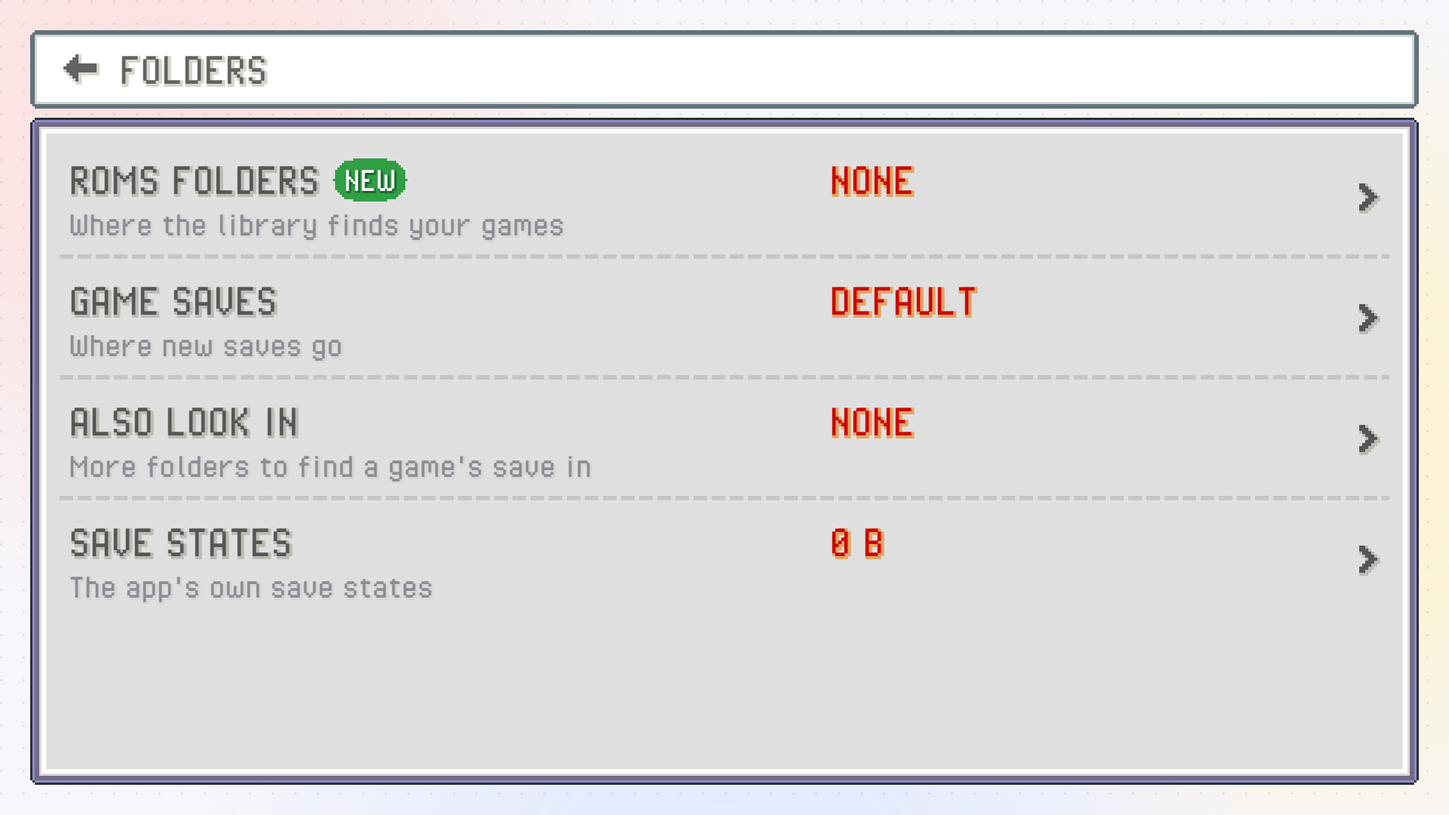
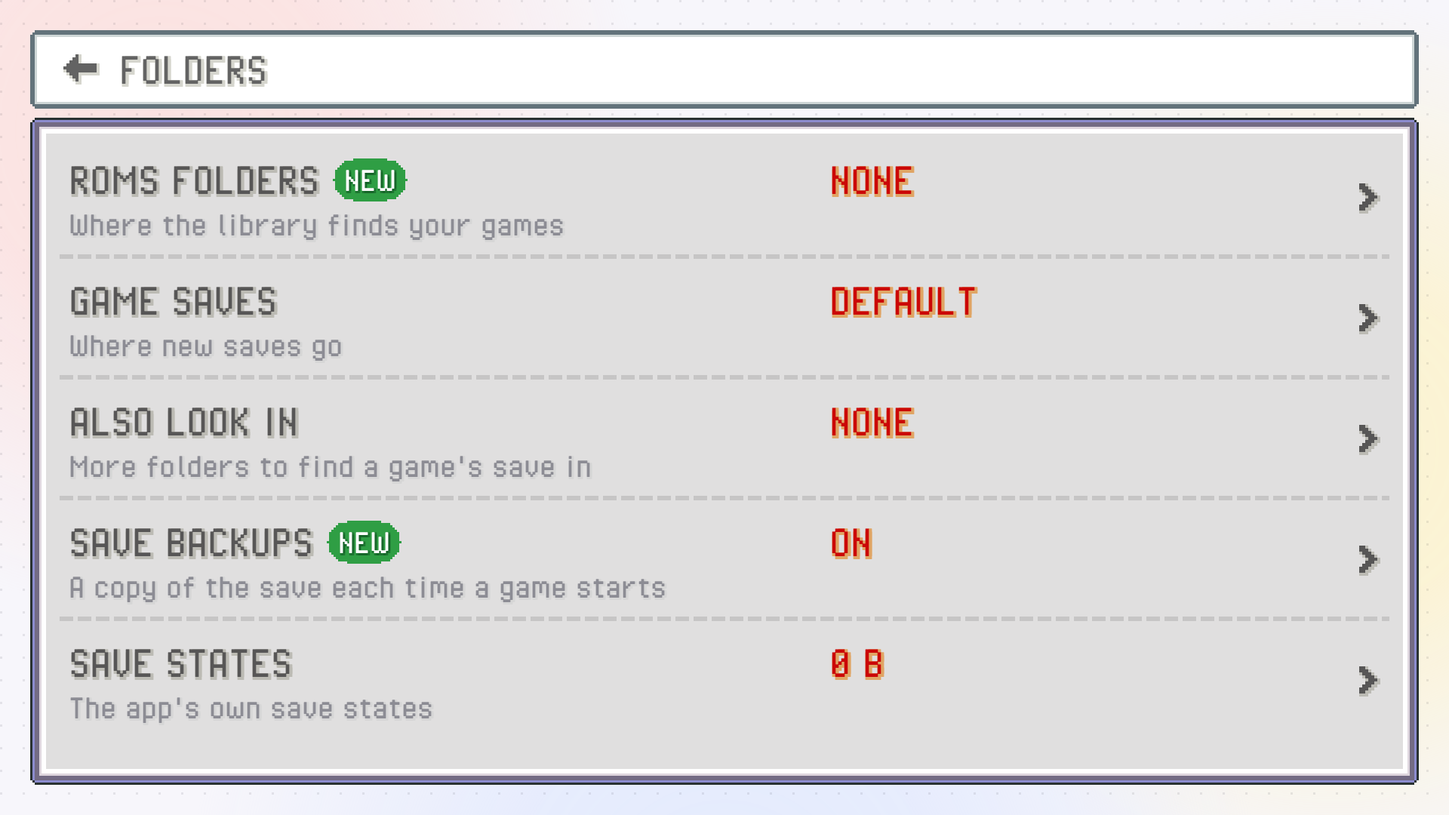
SAVE BACKUPS: backups on or off, how many a game keeps, one folder for all
Settings > FOLDERS > SAVE BACKUPS (NEW tag): BACKUPS turns the copy each game start takes on or off,
KEEP PER GAME picks 1 / 3 / 5 / 10 / 20 / 50 (extras go at the next start), and CHANGE FOLDER puts
every game's backups in one folder instead of beside each save. RESTORE BACKUP lists both places.
The save editor still backs up whatever the switch says. Manual, translations, ui-preview and docs
shots, tests.

diff --git a/app/src/main/kotlin/com/pokedaisy/app/SettingsActivity.kt b/app/src/main/kotlin/com/pokedaisy/app/SettingsActivity.kt
@@ -127,7 +127,7 @@ import com.pokedaisy.app.companion.ui.drawPixelRoundRect
  */
 class SettingsActivity : ComponentActivity() {
 
-    private enum class Screen { HOME, SPEED, DISPLAY, HOTKEYS, CONTROLS, SHADERS, FIELD_HUD, QUICK_MENU, TOUCH, OVERLAYS, FOLDERS, ROMS_FOLDERS, SAVES_FOLDER, SAVE_SEARCH, STATES_FOLDER, COVER_ART, SCREENSCRAPER, HIDDEN, ACHIEVEMENTS, CHEATS, CHEAT_ADD, LICENSES, HELP }
+    private enum class Screen { HOME, SPEED, DISPLAY, HOTKEYS, CONTROLS, SHADERS, FIELD_HUD, QUICK_MENU, TOUCH, OVERLAYS, FOLDERS, ROMS_FOLDERS, SAVES_FOLDER, SAVE_SEARCH, STATES_FOLDER, BACKUPS, COVER_ART, SCREENSCRAPER, HIDDEN, ACHIEVEMENTS, CHEATS, CHEAT_ADD, LICENSES, HELP }
 
     private lateinit var prefs: Prefs
     private var screen by mutableStateOf(Screen.HOME)
@@ -292,6 +292,7 @@ class SettingsActivity : ComponentActivity() {
                         Screen.SAVES_FOLDER -> tk("GAME SAVES")
                         Screen.SAVE_SEARCH -> tk("ALSO LOOK IN")
                         Screen.STATES_FOLDER -> tk("SAVE STATES")
+                        Screen.BACKUPS -> tk("SAVE BACKUPS")
                         Screen.COVER_ART -> tk("COVER ART")
                         Screen.SCREENSCRAPER -> "ScreenScraper"
                         Screen.HIDDEN -> tk("HIDDEN GAMES")
@@ -324,6 +325,7 @@ class SettingsActivity : ComponentActivity() {
                     Screen.SAVES_FOLDER -> SavesFolderScreen(m, small)
                     Screen.SAVE_SEARCH -> AlsoLookInScreen(m, small)
                     Screen.STATES_FOLDER -> StatesFolderScreen(m, small)
+                    Screen.BACKUPS -> SaveBackupsScreen(m, small)
                     Screen.COVER_ART -> CoverArtScreen(m, small)
                     Screen.SCREENSCRAPER -> ScreenScraperScreen(m, small)
                     Screen.HIDDEN -> HiddenScreen(m, small)
@@ -1677,6 +1679,11 @@ class SettingsActivity : ComponentActivity() {
             SettingRow(tk("ALSO LOOK IN"), if (extra.isEmpty()) tk("NONE") else extra.size.toString(), opensPage = true, subtitle = "More folders to find a game's save in") {
                 screen = Screen.SAVE_SEARCH
             },
+            SettingRow(
+                tk("SAVE BACKUPS"), if (prefs.saveBackups) tk("ON") else tk("OFF"), opensPage = true,
+                subtitle = "A copy of the save each time a game starts",
+                labelBadge = com.pokedaisy.app.companion.NewFeatures.badge(com.pokedaisy.app.companion.NewFeatures.SAVE_BACKUPS),
+            ) { screen = Screen.BACKUPS },
             SettingRow(tk("SAVE STATES"), humanSize(states), opensPage = true, subtitle = "The app's own save states") { screen = Screen.STATES_FOLDER },
         )
     }
@@ -1786,6 +1793,75 @@ class SettingsActivity : ComponentActivity() {
         Column(Modifier.fillMaxWidth().verticalScroll(rememberScrollState())) {
             FolderSection(null, statesDir, folderTick, m, small)
         }
+    }
+
+    /** SAVE BACKUPS: the copy of the save each game's start takes ([SaveBackups]) - on or off, how many a game
+     * keeps and where they go. The save editor backs up whatever this says. */
+    @Composable
+    private fun SaveBackupsScreen(m: GbaTextMetrics, small: GbaTextMetrics) {
+        @Suppress("UNUSED_EXPRESSION") revision
+        val tick = folderTick
+        val pick = rememberLauncherForActivityResult(StorageAccess.PickFolder()) { uri ->
+            val path = pickedFolder(uri) ?: return@rememberLauncherForActivityResult
+            prefs.saveBackupsDir = path
+            backupsChanged()
+        }
+        val on = prefs.saveBackups
+        val keep = prefs.saveBackupsKeep
+        val folder = remember(tick) { prefs.saveBackupsDir }
+        val rows = listOf(
+            SettingRow(tk("BACKUPS"), if (on) tk("ON") else tk("OFF"), subtitle = "A copy of the save each time a game starts") {
+                prefs.saveBackups = !on
+                backupsChanged()
+            },
+            SettingRow(tk("KEEP PER GAME"), keep.toString(), enabled = on, subtitle = "The oldest go when a new one is made") {
+                selector = Selector(tk("KEEP PER GAME"), SaveBackups.KEEP_CHOICES.map { it.toString() }, keep.toString()) {
+                    prefs.saveBackupsKeep = it.toInt()
+                    backupsChanged()
+                }
+            },
+        )
+        val ctx = LocalContext.current
+        Column(Modifier.fillMaxWidth()) {
+            OptionListWindow(m, Modifier.fillMaxWidth().weight(1f, fill = false)) {
+                GroupedRows(rows, m, cursor = -1, onClick = { rows[it].onClick() }, footer = {
+                    // Level with the rows' labels.
+                    Column(Modifier.padding(horizontal = m.u * 8).padding(top = m.u * 4)) {
+                        GbaText(tr("BACKUP FOLDER"), OptionColors.label, OptionColors.labelShadow, m)
+                        if (folder == null) {
+                            GbaText(
+                                tr("Beside each save, in a {0} folder.", SaveBackups.DIR_NAME),
+                                OptionColors.muted, OptionColors.mutedShadow, small, maxLines = Int.MAX_VALUE,
+                            )
+                        } else {
+                            GbaText(folder, OptionColors.muted, OptionColors.mutedShadow, small, maxLines = 3)
+                        }
+                        GbaText(
+                            tr("Backups made before a change stay where they are, and RESTORE BACKUP still finds them."),
+                            OptionColors.muted, OptionColors.mutedShadow, small, maxLines = Int.MAX_VALUE,
+                            modifier = Modifier.padding(top = m.u * 2),
+                        )
+                        Row(
+                            modifier = Modifier.padding(vertical = m.u * 4),
+                            horizontalArrangement = Arrangement.spacedBy(m.u * 4),
+                        ) {
+                            OptionButton(tk("CHANGE FOLDER"), small, enabled = on, onClick = { pickFolder(pick) })
+                            if (folder != null) {
+                                OptionButton(tk("USE DEFAULT"), small, enabled = on, onClick = { prefs.saveBackupsDir = null; backupsChanged() })
+                                OptionButton(tk("COPY PATH"), small, onClick = { copyPath(ctx, folder) })
+                            }
+                        }
+                    }
+                })
+            }
+        }
+    }
+
+    /** A SAVE BACKUPS choice changed: the next game's start reads it from [SaveBackups.settings]. */
+    private fun backupsChanged() {
+        SaveBackups.settings = SaveBackups.Settings.from(prefs)
+        revision++
+        folderTick++
     }
 
     private var romsScanning by mutableStateOf(false)
@@ -1918,7 +1994,7 @@ class SettingsActivity : ComponentActivity() {
     }
 
     companion object {
-        private val FOLDER_PAGES = setOf(Screen.ROMS_FOLDERS, Screen.SAVES_FOLDER, Screen.SAVE_SEARCH, Screen.STATES_FOLDER)
+        private val FOLDER_PAGES = setOf(Screen.ROMS_FOLDERS, Screen.SAVES_FOLDER, Screen.SAVE_SEARCH, Screen.STATES_FOLDER, Screen.BACKUPS)
         val RATES = floatArrayOf(0f, 1.5f, 2f, 3f, 4f, 5f, 6f, 8f, 10f)
         const val REPO_URL = "https://github.com/lidor30/pokedaisy"
         /** A ROM path: open straight on that game's CHEATS (its library menu). */

diff --git a/app/src/main/kotlin/com/pokedaisy/app/SaveBackups.kt b/app/src/main/kotlin/com/pokedaisy/app/SaveBackups.kt
@@ -11,34 +11,73 @@ import java.util.Locale
  * it: `<saves>/pokedaisy-backups/<game>.backup-<yyyyMMdd-HHmmss>.<ext>`. Beside the
  * save (not in the app's private folder) so a file manager reaches it, it outlives an
  * uninstall, and LOAD SAVE can pick it. A copy is only made when the save differs from
- * the newest one, and the newest [KEEP] per game are kept.
+ * the newest one, and the newest [Settings.keep] per game are kept.
+ *
+ * Settings > FOLDERS > SAVE BACKUPS ([settings], from [Prefs]): the start's backups can be turned off, kept
+ * fewer or more, and gathered in one folder of the player's ([Settings.folder]) instead of beside each save.
+ * The save editor's backups ([SaveFileEdits]) are taken whatever the switch says (`force`): it never writes
+ * a save without one.
  */
 object SaveBackups {
 
     const val DIR_NAME = "pokedaisy-backups"
     const val KEEP = 10
 
-    fun dir(save: File): File = File(save.parentFile, DIR_NAME)
+    /** KEEP PER GAME's choices. */
+    val KEEP_CHOICES = listOf(1, 3, 5, 10, 20, 50)
 
-    /** [save]'s backups, newest first. */
-    fun list(save: File): List<File> =
-        dir(save).listFiles { f -> f.isFile && f.name.startsWith("${save.nameWithoutExtension}.backup-") }
+    class Settings(
+        /** Off: a game's start takes no backup. */
+        val enabled: Boolean = true,
+        /** Every game's backups in this folder; null = a [DIR_NAME] folder beside each save. */
+        val folder: File? = null,
+        val keep: Int = KEEP,
+    ) {
+        companion object {
+            fun from(prefs: Prefs) = Settings(prefs.saveBackups, prefs.saveBackupsDir?.let(::File), prefs.saveBackupsKeep)
+        }
+    }
+
+    /** The player's choices: set at app start and by Settings when they change. */
+    @Volatile var settings = Settings()
+
+    /** Where [save]'s new backups go. */
+    fun dir(save: File, settings: Settings = this.settings): File = settings.folder ?: besideSave(save)
+
+    private fun besideSave(save: File) = File(save.parentFile, DIR_NAME)
+
+    /** [save]'s backups, newest first: in the backup folder and beside the save (where they went before a folder
+     * was picked, or after it was dropped), so RESTORE BACKUP still finds the older ones. */
+    fun list(save: File, settings: Settings = this.settings): List<File> =
+        listOfNotNull(besideSave(save), settings.folder).distinctBy { it.absolutePath }
+            .flatMap { inDir(it, save) }.sortedByDescending { it.name }
+
+    private fun inDir(dir: File, save: File): List<File> =
+        dir.listFiles { f -> f.isFile && f.name.startsWith("${save.nameWithoutExtension}.backup-") }
             ?.sortedByDescending { it.name }.orEmpty()
 
     /** Backs [save] up if it has data the newest backup doesn't. Never throws: a
-     * folder we can't write mustn't keep the game from starting. */
-    fun snapshot(save: File, now: Long = System.currentTimeMillis()): File? = runCatching {
+     * folder we can't write mustn't keep the game from starting. [force]: even with backups off. */
+    fun snapshot(
+        save: File, now: Long = System.currentTimeMillis(), settings: Settings = this.settings, force: Boolean = false,
+    ): File? = runCatching {
+        if (!settings.enabled && !force) return null
         if (!save.isFile || save.length() == 0L || save.length() > GameSaves.MAX_BYTES) return null
         val bytes = save.readBytes()
-        val existing = list(save)
-        if (existing.firstOrNull()?.let { sameSave(it.readBytes(), bytes) } == true) return null
-        val dir = dir(save).apply { mkdirs() }
+        val dir = dir(save, settings)
+        val existing = inDir(dir, save)
+        val keep = settings.keep.coerceAtLeast(1)
+        if (existing.firstOrNull()?.let { sameSave(it.readBytes(), bytes) } == true) {
+            existing.drop(keep).forEach { it.delete() }   // KEEP PER GAME lowered since
+            return null
+        }
+        dir.mkdirs()
         val stamp = SimpleDateFormat("yyyyMMdd-HHmmss", Locale.US).format(Date(now))
         val out = File(dir, "${save.nameWithoutExtension}.backup-$stamp.${save.extension}")
         val tmp = File(dir, "${out.name}.tmp")
         tmp.writeBytes(bytes)
         if (!tmp.renameTo(out)) { tmp.delete(); return null }
-        (listOf(out) + existing).drop(KEEP).forEach { it.delete() }
+        (listOf(out) + existing.filter { it != out }).drop(keep).forEach { it.delete() }
         out
     }.onFailure { Log.w("pokedaisy", "save backup failed: $it") }.getOrNull()
 

diff --git a/app/src/main/kotlin/com/pokedaisy/app/companion/i18n/TrSettings.kt b/app/src/main/kotlin/com/pokedaisy/app/companion/i18n/TrSettings.kt
@@ -28,6 +28,13 @@ internal val trSettings: Map<String, Tr> = mapOf(
     "A battle opens BATTLE, then goes back" to Tr(ja = "バトルで バトルを ひらき あとで もどる", fr = "Un combat ouvre COMBAT, puis revient", de = "Ein Kampf öffnet KAMPF, dann zurück", it = "Una lotta apre LOTTA, poi torna", es = "Un combate abre COMBATE y luego vuelve", br = "Uma batalha abre BATALHA e depois volta", pt = "Uma batalha abre BATALHA e depois volta"),
     "SEARCH SETTINGS (e.g. KEY BINDINGS)" to Tr(ja = "せっていを さがす (れい: キーせってい)", fr = "CHERCHER (ex. TOUCHES)", de = "SUCHEN (z. B. TASTEN)", it = "CERCA (es. TASTI)", es = "BUSCAR (p. ej. TECLAS)", br = "BUSCAR (ex. TECLAS)", pt = "PESQUISAR (ex. TECLAS)"),
     "NOTHING MATCHES \"{0}\"" to Tr(ja = "「{0}」は みつかりません", fr = "RIEN POUR « {0} »", de = "NICHTS FÜR \"{0}\"", it = "NIENTE PER \"{0}\"", es = "NADA PARA \"{0}\"", br = "NADA PARA \"{0}\"", pt = "NADA PARA \"{0}\""),
+    "SAVE BACKUPS" to Tr(ja = "セーブの バックアップ", fr = "COPIES DE SAUVEGARDE", de = "SPEICHER-BACKUPS", it = "BACKUP SALVATAGGI", es = "COPIAS DE PARTIDAS", br = "BACKUPS DE SAVES", pt = "CÓPIAS DE GRAVAÇÕES"),
+    "KEEP PER GAME" to Tr(ja = "1ゲームに いくつ", fr = "PAR JEU", de = "PRO SPIEL", it = "PER GIOCO", es = "POR JUEGO", br = "POR JOGO", pt = "POR JOGO"),
+    "BACKUP FOLDER" to Tr(ja = "バックアップの フォルダ", fr = "DOSSIER DES COPIES", de = "BACKUP-ORDNER", it = "CARTELLA BACKUP", es = "CARPETA DE COPIAS", br = "PASTA DE BACKUP", pt = "PASTA DAS CÓPIAS"),
+    "A copy of the save each time a game starts" to Tr(ja = "ゲームを はじめるたびに セーブを コピー", fr = "Une copie de la sauvegarde à chaque lancement", de = "Eine Kopie des Spielstands bei jedem Start", it = "Una copia del salvataggio a ogni avvio", es = "Una copia de la partida al empezar cada juego", br = "Uma cópia do save a cada vez que um jogo começa", pt = "Uma cópia da gravação sempre que um jogo começa"),
+    "The oldest go when a new one is made" to Tr(ja = "あたらしく つくると ふるいものから けします", fr = "Les plus anciennes partent quand une nouvelle est faite", de = "Die ältesten gehen, wenn ein neues entsteht", it = "I più vecchi se ne vanno quando ne arriva uno nuovo", es = "Las más antiguas se borran al hacer una nueva", br = "Os mais antigos saem quando um novo é feito", pt = "As mais antigas saem quando é feita uma nova"),
+    "Beside each save, in a {0} folder." to Tr(ja = "それぞれの セーブの となりの {0} フォルダ。", fr = "À côté de chaque sauvegarde, dans un dossier {0}.", de = "Neben jedem Spielstand, in einem Ordner {0}.", it = "Accanto a ogni salvataggio, in una cartella {0}.", es = "Junto a cada partida, en una carpeta {0}.", br = "Ao lado de cada save, numa pasta {0}.", pt = "Ao lado de cada gravação, numa pasta {0}."),
+    "Backups made before a change stay where they are, and RESTORE BACKUP still finds them." to Tr(ja = "かえる まえの バックアップは そのまま のこり、 バックアップを もどす でも えらべます。", fr = "Les copies faites avant un changement restent où elles sont, et RESTAURER COPIE les trouve toujours.", de = "Backups von vor einer Änderung bleiben, wo sie sind, und BACKUP LADEN findet sie weiter.", it = "I backup fatti prima di una modifica restano dove sono e RIPRISTINA BACKUP li trova ancora.", es = "Las copias hechas antes de un cambio se quedan donde están, y RESTAURAR COPIA las sigue encontrando.", br = "Backups feitos antes de uma mudança ficam onde estão, e RESTAURAR BACKUP ainda os encontra.", pt = "As cópias feitas antes de uma mudança ficam onde estão, e RESTAURAR CÓPIA continua a encontrá-las."),
     "ALSO LOOK IN" to Tr(ja = "ほかに さがす フォルダ", fr = "CHERCHER AUSSI DANS", de = "AUCH SUCHEN IN", it = "CERCA ANCHE IN", es = "BUSCAR TAMBIÉN EN", br = "BUSCAR TAMBÉM EM", pt = "PROCURAR TAMBÉM EM"),
     "ROMS FOLDERS" to Tr(ja = "ROMの フォルダ", fr = "DOSSIERS DE ROM", de = "ROM-ORDNER", it = "CARTELLE ROM", es = "CARPETAS DE ROMS", br = "PASTAS DE ROMS", pt = "PASTAS DE ROMS"),
     "{0} GAME(S)" to Tr(ja = "ゲーム {0}こ", fr = "{0} JEU(X)", de = "{0} SPIEL(E)", it = "{0} GIOCO/I", es = "{0} JUEGO(S)", br = "{0} JOGO(S)", pt = "{0} JOGO(S)"),

diff --git a/app/src/test/kotlin/com/pokedaisy/app/SaveBackupsTest.kt b/app/src/test/kotlin/com/pokedaisy/app/SaveBackupsTest.kt
@@ -9,6 +9,7 @@ import org.junit.Assert.assertTrue
 import org.junit.Rule
 import org.junit.Test
 import org.junit.rules.TemporaryFolder
+import java.io.File
 import kotlin.random.Random
 
 class SaveBackupsTest {
@@ -53,5 +54,49 @@ class SaveBackupsTest {
         assertNull(SaveBackups.snapshot(tmp.root.resolve("none.sav")))
         assertNull(SaveBackups.snapshot(tmp.newFile("empty.sav")))
         assertFalse(SaveBackups.dir(tmp.root.resolve("x.sav")).exists())
+    }
+
+    @Test
+    fun offTakesNoneButTheEditorStillDoes() {
+        val save = tmp.newFile("off.sav").apply { writeBytes(flash) }
+        val off = SaveBackups.Settings(enabled = false)
+        assertNull(SaveBackups.snapshot(save, settings = off))
+        assertFalse(SaveBackups.dir(save, off).exists())
+        assertNotNull(SaveBackups.snapshot(save, settings = off, force = true))
+    }
+
+    @Test
+    fun keepsWhatKeepPerGameSays() {
+        val save = tmp.newFile("few.sav")
+        val three = SaveBackups.Settings(keep = 3)
+        repeat(6) { i ->
+            save.writeBytes(flash.copyOf().also { it[0] = i.toByte() })
+            SaveBackups.snapshot(save, now = 1_000_000L * (i + 1), settings = three)
+        }
+        assertEquals(3, SaveBackups.list(save, three).size)
+        // Lowered later: the extra ones go at the next start, even with the save unchanged.
+        val one = SaveBackups.Settings(keep = 1)
+        assertNull(SaveBackups.snapshot(save, now = 9_000_000L, settings = one))
+        assertEquals(1, SaveBackups.list(save, one).size)
+        assertEquals(5.toByte(), SaveBackups.list(save, one).first().readBytes()[0])
+    }
+
+    @Test
+    fun oneFolderForEveryGame() {
+        val saves = tmp.newFolder("saves")
+        val folder = tmp.newFolder("backups")
+        val save = File(saves, "Pokemon Emerald.sav").apply { writeBytes(flash) }
+        val beside = SaveBackups.snapshot(save, now = 1_000_000L)!!
+        val custom = SaveBackups.Settings(folder = folder)
+        // The folder has none yet: a copy goes there even though the one beside the save is the same.
+        val moved = SaveBackups.snapshot(save, now = 2_000_000L, settings = custom)!!
+        assertEquals(folder, moved.parentFile)
+        assertTrue(beside.exists())
+        // RESTORE BACKUP lists both places, newest first.
+        assertEquals(listOf(moved, beside), SaveBackups.list(save, custom))
+        // Another game's backups in the same folder aren't this one's.
+        File(saves, "Pokemon Emerald Kaizo.sav").writeBytes(flash)
+        SaveBackups.snapshot(File(saves, "Pokemon Emerald Kaizo.sav"), now = 3_000_000L, settings = custom)
+        assertEquals(2, SaveBackups.list(save, custom).size)
     }
 }

diff --git a/ui-preview/src/render/Main.kt b/ui-preview/src/render/Main.kt
@@ -2376,6 +2376,20 @@ fun main(args: Array<String>) {
             waitForIdle()
             onNodeWithText("ALSO LOOK IN").performSemanticsAction(SemanticsActions.OnClick)
         },
+        // FOLDERS > SAVE BACKUPS: as it starts (beside each save), then with a folder of its own picked.
+        Shot("settings-folders-backups", tw, th, td, activity { SettingsActivity() }) {
+            onNodeWithText("FOLDERS").performScrollTo().performSemanticsAction(SemanticsActions.OnClick)
+            waitForIdle()
+            onNodeWithText("SAVE BACKUPS").performSemanticsAction(SemanticsActions.OnClick)
+        },
+        Shot("settings-folders-backups-custom", tw, th, td, activity {
+            Prefs(android.content.Context()).saveBackupsDir = "/storage/emulated/0/Backups/PokeDaisy"
+            SettingsActivity()
+        }) {
+            onNodeWithText("FOLDERS").performScrollTo().performSemanticsAction(SemanticsActions.OnClick)
+            waitForIdle()
+            onNodeWithText("SAVE BACKUPS").performSemanticsAction(SemanticsActions.OnClick)
+        },
         // CHEATS from the hub (no cheats yet), then as a game's library menu opens it.
         Shot("settings-cheats-empty", tw, th, td, activity { SettingsActivity() }) {
             onNodeWithText("CHEATS").performScrollTo().performSemanticsAction(SemanticsActions.OnClick)

diff --git a/app/src/main/kotlin/com/pokedaisy/app/SaveFileEdits.kt b/app/src/main/kotlin/com/pokedaisy/app/SaveFileEdits.kt
@@ -46,7 +46,7 @@ object SaveFileEdits {
     /** Writes [edited] over [rom]'s save, which must still be [expected]. Blocking: off the UI thread. */
     fun commit(context: Context, prefs: Prefs, rom: File, expected: ByteArray, edited: ByteArray): Result {
         val save = SavesLocation.saveFor(context, prefs, rom)
-        val result = write(save, expected, edited) { SaveBackups.snapshot(it) }
+        val result = write(save, expected, edited) { SaveBackups.snapshot(it, force = true) }
         if (result is Result.Written) runCatching {
             SaveStates(context.getExternalFilesDir(null) ?: context.filesDir, SaveStates.crc32(rom)).freshBootFile.createNewFile()
         }
@@ -60,7 +60,7 @@ object SaveFileEdits {
     fun commitBoth(context: Context, prefs: Prefs, a: Edit, b: Edit): Result {
         val saveA = SavesLocation.saveFor(context, prefs, a.rom)
         val saveB = SavesLocation.saveFor(context, prefs, b.rom)
-        val result = writeBoth(saveA, a, saveB, b) { SaveBackups.snapshot(it) }
+        val result = writeBoth(saveA, a, saveB, b) { SaveBackups.snapshot(it, force = true) }
         if (result is Result.Written) for (rom in listOf(a.rom, b.rom)) runCatching {
             SaveStates(context.getExternalFilesDir(null) ?: context.filesDir, SaveStates.crc32(rom)).freshBootFile.createNewFile()
         }

diff --git a/app/src/main/kotlin/com/pokedaisy/app/Prefs.kt b/app/src/main/kotlin/com/pokedaisy/app/Prefs.kt
@@ -605,6 +605,21 @@ class Prefs(context: Context) {
         get() = p.getString("extra_save_dirs", null)?.split('\n')?.filter { it.isNotBlank() }.orEmpty()
         set(v) = p.edit().putString("extra_save_dirs", v.distinct().joinToString("\n")).apply()
 
+    /** Settings > FOLDERS > SAVE BACKUPS: a backup of the save each time a game starts ([SaveBackups]). */
+    var saveBackups: Boolean
+        get() = p.getBoolean("save_backups", true)
+        set(v) = p.edit().putBoolean("save_backups", v).apply()
+
+    /** SAVE BACKUPS' folder for every game's backups; null = a pokedaisy-backups folder beside each save. */
+    var saveBackupsDir: String?
+        get() = p.getString("save_backups_dir", null)
+        set(v) = p.edit().putString("save_backups_dir", v).apply()
+
+    /** SAVE BACKUPS > KEEP PER GAME: how many backups a game keeps, newest first. */
+    var saveBackupsKeep: Int
+        get() = p.getInt("save_backups_keep", 10)   // SaveBackups.KEEP
+        set(v) = p.edit().putInt("save_backups_keep", v).apply()
+
     /** [file]'s own save folder (the library menu's SAVE FOLDER); null = [SavesLocation.saveFor]'s search. */
     fun romSaveDir(file: java.io.File): String? = p.getString("romsavedir_${file.name}", null)
     fun setRomSaveDir(file: java.io.File, path: String?) = p.edit().apply {

diff --git a/app/src/main/kotlin/com/pokedaisy/app/companion/NewFeatures.kt b/app/src/main/kotlin/com/pokedaisy/app/companion/NewFeatures.kt
@@ -94,6 +94,9 @@ object NewFeatures {
     /** Settings > FOLDERS > ROMS FOLDERS and the library's + menu: several ROMs folders linked at once (RomFolder). */
     const val ROMS_FOLDERS = "roms_folders"
 
+    /** Settings > FOLDERS > SAVE BACKUPS: turn the start's save backups off, keep more or fewer, one folder for all. */
+    const val SAVE_BACKUPS = "save_backups"
+
     /** SETTINGS > DISCORD: PokeDaisy's Discord server, for help, bug reports, ideas and chat (companion.Discord). */
     const val DISCORD = "discord"
 
@@ -104,7 +107,7 @@ object NewFeatures {
     val ALL = listOf(
         HUD, BATTLE_BUTTONS, GAME_HOTKEYS, COMPANION_WINDOW, HUD_PC, QUICK_MENU, HUD_REPEL, SINGLE_SCREEN, MORE_TAB, TOUCH_CONTROLS,
         COMPANION_TAB, REUSABLE_TMS, SHINY_ODDS, UNLIT_SCREEN, LIGHT_COMPANION, X_COMPANION, PLAYER_LOOK, RIVAL_LOOK, TEXT_LOOK, DAY_NIGHT,
-        FOLLOWER, COMPANION_HOTKEY, NUZLOCKE, GBA_BUTTONS, DS_RESOLUTION, TIPS, ROMS_FOLDERS, DISCORD, BOXES_TAB,
+        FOLLOWER, COMPANION_HOTKEY, NUZLOCKE, GBA_BUTTONS, DS_RESOLUTION, TIPS, ROMS_FOLDERS, SAVE_BACKUPS, DISCORD, BOXES_TAB,
         GAME_VOLUME,
     )
 

diff --git a/app/src/main/kotlin/com/pokedaisy/app/companion/ui/SettingRows.kt b/app/src/main/kotlin/com/pokedaisy/app/companion/ui/SettingRows.kt
@@ -128,7 +128,7 @@ val SETTING_KEYWORDS: Map<String, String> = mapOf(
     "FPS / CPU" to "fps frame rate framerate cpu usage performance speed overlay counter 60",
     "DARK MODE" to "dark night black theme light colors appearance auto system",
     "RESUME GAMES" to "auto resume continue launch boot",
-    "FOLDERS" to "roms folder folders multiple add link saves directory path location storage retroarch syncthing save states",
+    "FOLDERS" to "roms folder folders multiple add link saves directory path location storage retroarch syncthing save states backup backups restore",
     "COVER ART" to "box art boxart covers steamgriddb images thumbnails api key",
     "HIDDEN GAMES" to "hide unhide library show",
     "CHEATS" to "gameshark action replay codebreaker codes",

diff --git a/app/src/main/kotlin/com/pokedaisy/app/PokeDaisyApp.kt b/app/src/main/kotlin/com/pokedaisy/app/PokeDaisyApp.kt
@@ -14,6 +14,7 @@ class PokeDaisyApp : Application() {
         // SOUND > GAME VOLUME / MUTE GAME: every player of the game's sound reads it from here.
         GameVolume.load(prefs)
         com.pokedaisy.app.companion.data.onGameIdentified = { kind, how -> CrashReports.gameIdentified(kind, how) }
+        SaveBackups.settings = SaveBackups.Settings.from(prefs)
         ScreenScraperClient.enabled = FeatureFlags.screenScraper(this)
         // LIGHT COMPANION: the player's pick, and AUTO's verdict (a device that looks weak, or whose buttons came late before).
         com.pokedaisy.app.companion.LightCompanion.mode = com.pokedaisy.app.companion.LightCompanionMode.of(prefs.lightCompanion)

diff --git a/app/src/main/kotlin/com/pokedaisy/app/SaveEditorActivity.kt b/app/src/main/kotlin/com/pokedaisy/app/SaveEditorActivity.kt
@@ -154,7 +154,7 @@ class SaveEditorActivity : ComponentActivity() {
         saving = false
         when (result) {
             is SaveFileEdits.Result.Written -> {
-                Toast.makeText(this, tr("Saved. The previous save is in {0}", SaveBackups.DIR_NAME), Toast.LENGTH_LONG).show()
+                Toast.makeText(this, tr("Saved. The previous save is in {0}", result.backup.parentFile?.name ?: SaveBackups.DIR_NAME), Toast.LENGTH_LONG).show()
                 load()   // further edits start from the file as written
             }
             is SaveFileEdits.Result.Failed -> Toast.makeText(this, result.reason, Toast.LENGTH_LONG).show()

diff --git a/ui-preview/src/render/DocsShots.kt b/ui-preview/src/render/DocsShots.kt
@@ -265,6 +265,7 @@ fun docsShots(all: List<Shot>, bw: Int, bh: Int, bd: Float, tw: Int, th: Int, td
         "settings-overlay" to "settings-overlay", "settings-theme" to "settings-theme", "overlay-daisy" to "overlay-daisy",
         "overlay-bezel" to "overlay-bezel",
         "settings-touch-phone" to "settings-touch-phone", "settings-touch-edit" to "settings-touch-edit",
+        "settings-folders-backups" to "settings-folders-backups",
     )
     val byName = all.associateBy { it.name }
     val top = reuse.mapNotNull { (from, to) ->
